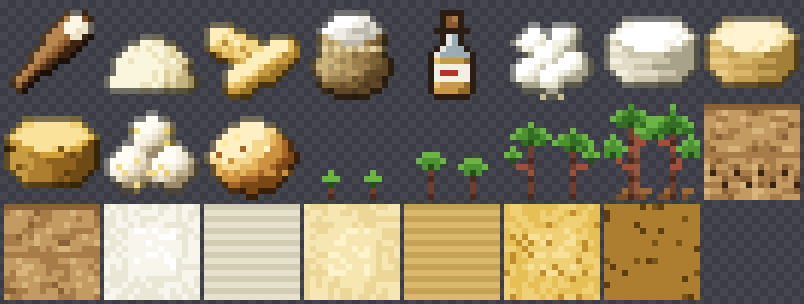
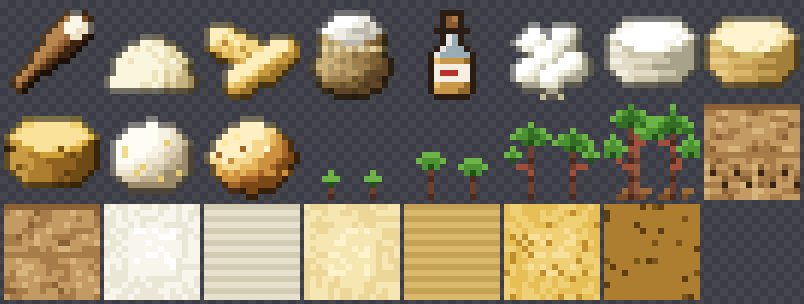
Ajuste na textura da massa de pão de queijo e rebalanceamento dos efeitos (Pressa I, alta saturação)

Changed region(s): [[0.1244, 0.3553, 0.2488, 0.6513]]

diff --git a/src/main/java/com/queijomineiro/item/ModFoods.java b/src/main/java/com/queijomineiro/item/ModFoods.java
@@ -44,13 +44,14 @@ public final class ModFoods {
 					new StatusEffectInstance(StatusEffects.ABSORPTION, 30 * SEG, 0)), 1.0f))
 			.build();
 
-	// Pão de queijo quentinho: come rápido, dá energia (Velocidade) e Regeneração.
+	// Pão de queijo quentinho: comida de conforto de alto nível!
+	// Nutrição 6, saturação 1.2 (nível cenoura dourada) e come rápido (1.0s).
+	// Efeito temático: Pressa I (Haste) por 20 segundos (disposição para trabalhar/minerar).
 	public static final FoodComponent PAO_DE_QUEIJO = new FoodComponent.Builder()
-			.nutrition(5).saturationModifier(1.0f).build();
+			.nutrition(6).saturationModifier(1.2f).alwaysEdible().build();
 	public static final ConsumableComponent PAO_DE_QUEIJO_CONSUMO = ConsumableComponents.food()
 			.consumeSeconds(1.0f)
 			.consumeEffect(new ApplyEffectsConsumeEffect(List.of(
-					new StatusEffectInstance(StatusEffects.SPEED, 30 * SEG, 0),
-					new StatusEffectInstance(StatusEffects.REGENERATION, 4 * SEG, 0)), 1.0f))
+					new StatusEffectInstance(StatusEffects.HASTE, 20 * SEG, 0)), 1.0f))
 			.build();
 }

diff --git a/tools/gerar_texturas.py b/tools/gerar_texturas.py
@@ -356,12 +356,10 @@ def item_massa_de_pao_de_queijo():
     rng = random.Random(9)
     img = Img()
     massa = rampa("#9a8a6a", "#bdae8e", "#d8cbad", "#eae1ca", "#f6f1e2", "#fffcf4")
-    # três bolinhas cruas
-    elipse(img, 8.0, 5.4, 3.5, 3.2, massa, rng)
-    elipse(img, 4.6, 10.6, 3.6, 3.3, massa, rng)
-    elipse(img, 11.4, 10.6, 3.6, 3.3, massa, rng)
-    # pontinhos de queijo na massa
-    pontilhar(img, rng, 0.07, [cor("#f2dc8a"), cor("#e8cc70")])
+    # Uma bolinha crua (mesmo porte e formato do pão assado, mas crua e clara)
+    elipse(img, 8.0, 8.9, 6.4, 5.5, massa, rng, 0.12)
+    # Pedacinhos visíveis de queijo ralado na massa crua
+    pontilhar(img, rng, 0.08, [cor("#e8cc70"), cor("#f2dc8a")], filtro=lambda x, y: 5 < y < 13)
     contorno(img, 0.5)
     return img
 
